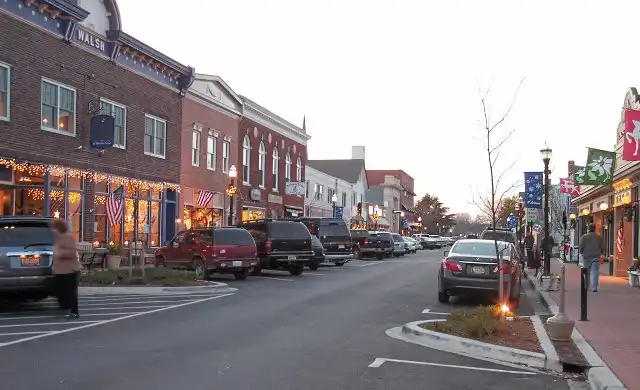
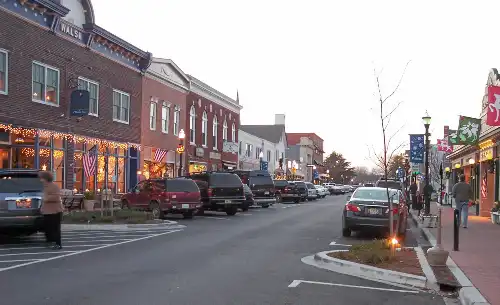
added real life images, plus some CSS to make them look pretty. Oh, and some HTML to tie it all together.

diff --git a/chamber/discover.html b/chamber/discover.html
@@ -51,33 +51,60 @@
         </header>
         <main>
             <div class="gallery">
-                <picture id="pic1">
-                    <img src="https://dummyimage.com/300x400/ccc/fff" data-src="images/Delaware1.webp" alt="Image of downtown Hazardville">
-                </picture>
-                <picture id="pic2">
-                    <img src="https://dummyimage.com/300x400/ccc/fff" data-src="https://placekitten.com/300/400" alt="kittens">
-                </picture>
-                <picture id="pic3">
-                    <img src="https://dummyimage.com/300x400/ccc/fff" data-src="https://placekitten.com/300/400" alt="kittens">
-                </picture>
-                <picture id="pic4">
-                    <img src="https://dummyimage.com/300x400/ccc/fff" data-src="https://placekitten.com/300/400" alt="kittens">
-                </picture>
-                <picture id="pic5">
-                    <img src="https://dummyimage.com/300x400/ccc/fff" data-src="https://placekitten.com/300/400" alt="kittens">
-                </picture>
-                <picture id="pic6">
-                    <img src="https://dummyimage.com/300x400/ccc/fff" data-src="https://placekitten.com/300/400" alt="kittens">
-                </picture>
-                <picture id="pic7">
-                    <img src="https://dummyimage.com/300x400/ccc/fff" data-src="https://placekitten.com/300/400" alt="kittens">
-                </picture>
-                <picture id="pic8">
-                    <img src="https://dummyimage.com/300x400/ccc/fff" data-src="https://placekitten.com/300/400" alt="kittens">
-                </picture>
-                <picture id="pic9">
-                    <img src="https://dummyimage.com/300x400/ccc/fff" data-src="https://placekitten.com/300/400" alt="kittens">
-                </picture>
+                <figure>
+                    <picture id="pic1">
+                        <img src="https://dummyimage.com/327x200/ccc/fff" data-src="images/Delaware1.webp" alt="Image of downtown Hazardville">
+                    </picture>
+                    <p>A street featuring some of the businesses in Downtown Hazardville.</p>
+                </figure>
+                <figure>
+                    <picture id="pic2">
+                        <img src="https://dummyimage.com/326x245/ccc/fff" data-src="images/delaware2.webp" alt="Image of downtown Hazardville">
+                    </picture>
+                    <p>The intersection where the original Hazard Sign Co. was located.</p>
+                </figure>
+                <figure>
+                    <picture id="pic3">
+                        <img src="https://dummyimage.com/329x220/ccc/fff" data-src="images/delaware3.webp" alt="kittens">
+                    </picture>
+                    <p>The house the founder of Hazardville lived and died in.</p>
+                </figure>
+                <figure>
+                    <picture id="pic4">
+                        <img src="https://dummyimage.com/328x220/ccc/fff" data-src="images/delaware4.webp" alt="kittens">
+                    </picture>
+                    <p>A convenience store, one of the best members of the Hazardville Chamber of Commerce</p>
+                </figure>
+                <figure>
+                    <picture id="pic5">
+                        <img src="https://dummyimage.com/328x185/ccc/fff" data-src="images/delaware5.webp" alt="kittens">
+                    </picture>
+                    <p>A street featuring some of the businesses in Downtown Hazardville.</p>
+                </figure>
+                <figure>
+                    <picture id="pic6">
+                        <img src="https://dummyimage.com/333x250/ccc/fff" data-src="images/delaware6.webp" alt="kittens">
+                    </picture>
+                    <p>A street featuring some of the businesses in Downtown Hazardville.</p>
+                </figure>
+                <figure>
+                    <picture id="pic7">
+                        <img src="https://dummyimage.com/330x220/ccc/fff" data-src="images/delaware7.webp" alt="kittens">
+                    </picture>
+                    <p>A street featuring some of the businesses in Downtown Hazardville.</p>
+                </figure>
+                <figure>
+                    <picture id="pic8">
+                        <img src="https://dummyimage.com/329x185/ccc/fff" data-src="images/delaware8.webp" alt="kittens">
+                    </picture>
+                    <p>A street featuring some of the businesses in Downtown Hazardville.</p>
+                </figure>
+                <figure>
+                    <picture id="pic9">
+                        <img src="https://dummyimage.com/326x245/ccc/fff" data-src="images/delaware9.webp" alt="kittens">
+                    </picture>
+                    <p>A street featuring some of the businesses in Downtown Hazardville.</p>
+                </figure>
             </div>
         </main>
         <footer class="bottom-box">

diff --git a/chamber/css/stylesheet.css b/chamber/css/stylesheet.css
@@ -655,7 +655,47 @@ footer {
     margin: auto;
 }
 
+figure {
+    margin: auto;
+}
+
 .gallery picture {
-    padding: 5px;
     margin: auto auto;
+    justify-content: center;
+}
+
+#pic1 {
+    height: 200px;
+}
+
+#pic2 {
+    height: 245px;
+}
+
+#pic3 {
+    height: 220px;
+}
+
+#pic4 {
+    height: 220px;
+}
+
+#pic5 {
+    height: 185px;
+}
+
+#pic6 {
+    height: 250px;
+}
+
+#pic7 {
+    height: 220px;
+}
+
+#pic8 {
+    height: 185px;
+}
+
+#pic9 {
+    height: 245px;
 }
